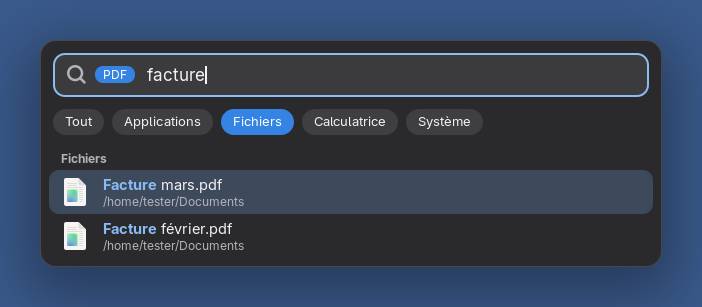
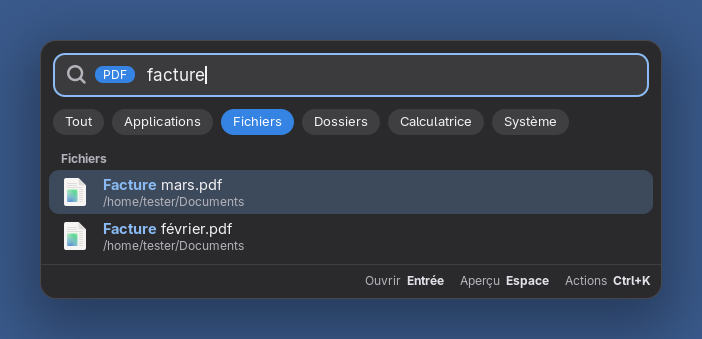
Span the help bar across the window, and say what Enter does only there
The line above the bar now runs the whole width, the words on the right.
A calculation no longer says "Enter to copy" in its own line: the bar
says it. The README screenshots show the bar, the folders and the menu.
The shell test of the right arrow leaves a moment between two keys, as a
person does: sent back to back, the input method may not have moved the
cursor for the first when the second is read.

Changed region(s): [[0.0598, 0.1173, 0.9573, 0.4397], [0.0598, 0.4397, 0.9274, 0.8208], [0.0598, 0.7915, 0.9573, 0.8795]]

diff --git a/src/ui/launcher.js b/src/ui/launcher.js
@@ -880,6 +880,8 @@ export class Launcher {
         const item = this.#selectedItem();
         const items = this.#confirmTimer ? [] : helpItems(item, {canPreview: this.#canPreview(item), gettext: this.#gettext});
         bar.destroy_all_children();
+        // The bar spans the window (its line above too), its words on the right.
+        bar.add_child(new St.Widget({x_expand: true}));
         for (const {label, key} of items) {
             const pair = new St.BoxLayout({style_class: 'luciole-help-item'});
             pair.add_child(new St.Label({text: label, style_class: 'luciole-help-label', y_align: Clutter.ActorAlign.CENTER}));
@@ -984,7 +986,7 @@ export class Launcher {
         panel.add_child(chipBox);
         panel.add_child(emptyHint);
         panel.add_child(view.actor);
-        const helpBar = new St.BoxLayout({style_class: 'luciole-help-bar', x_align: Clutter.ActorAlign.END, visible: false});
+        const helpBar = new St.BoxLayout({style_class: 'luciole-help-bar', x_expand: true, visible: false});
         panel.add_child(helpBar);
         this.#helpBar = helpBar;
         // Where "Path copied" (and the like) is said for a moment before the window closes.

diff --git a/src/providers/calc.js b/src/providers/calc.js
@@ -83,7 +83,8 @@ export class CalcProvider extends Provider {
         return [{
             id: outcome.text,
             title: outcome.result,
-            subtitle: `${outcome.text} · ${_('Enter to copy')}`,
+            // What Enter does is said in the bar under the results.
+            subtitle: outcome.text,
             icon: 'accessories-calculator-symbolic',
             // The typed text matches itself: the result always scores as a full match.
             matchFields: [outcome.text],

diff --git a/tests/calc-provider.test.js b/tests/calc-provider.test.js
@@ -36,7 +36,7 @@ test('a calculation gives one result: the answer as title, the calculation as su
     const t = await setup();
     const [result] = await t.search('2 + 2 * 3');
     assertEquals(result.title, '8');
-    assertEquals(result.subtitle, '2 + 2 * 3 · [Enter to copy]');
+    assertEquals(result.subtitle, '2 + 2 * 3');
     assertEquals(result.data, {copy: '8', full: '2 + 2 * 3 = 8'});
     assertEquals((await t.search('2 + 2 * 3')).length, 1);
 });
